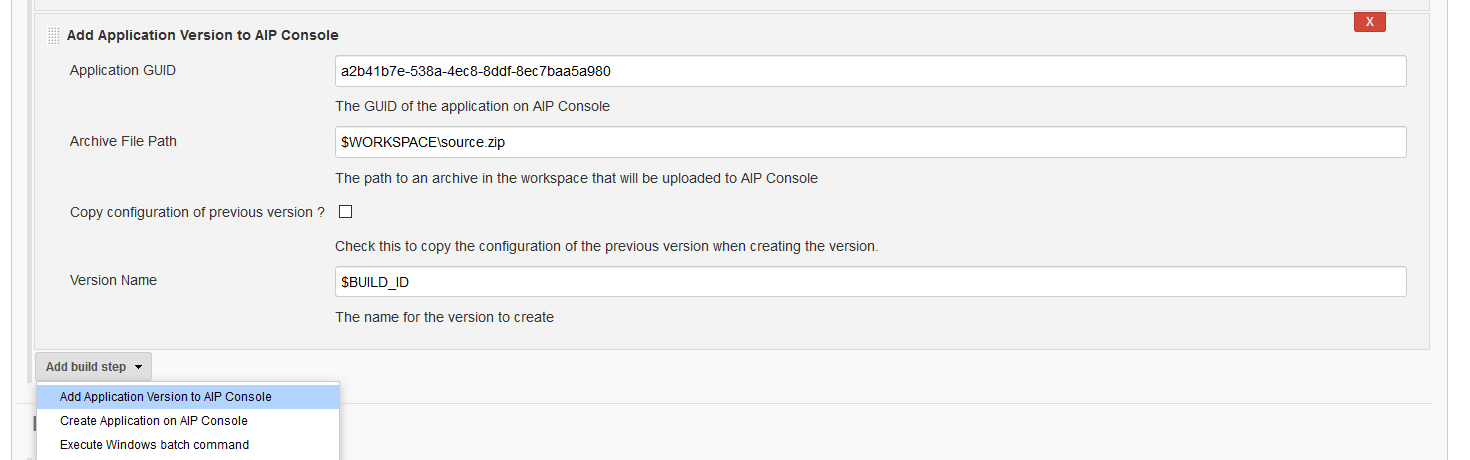
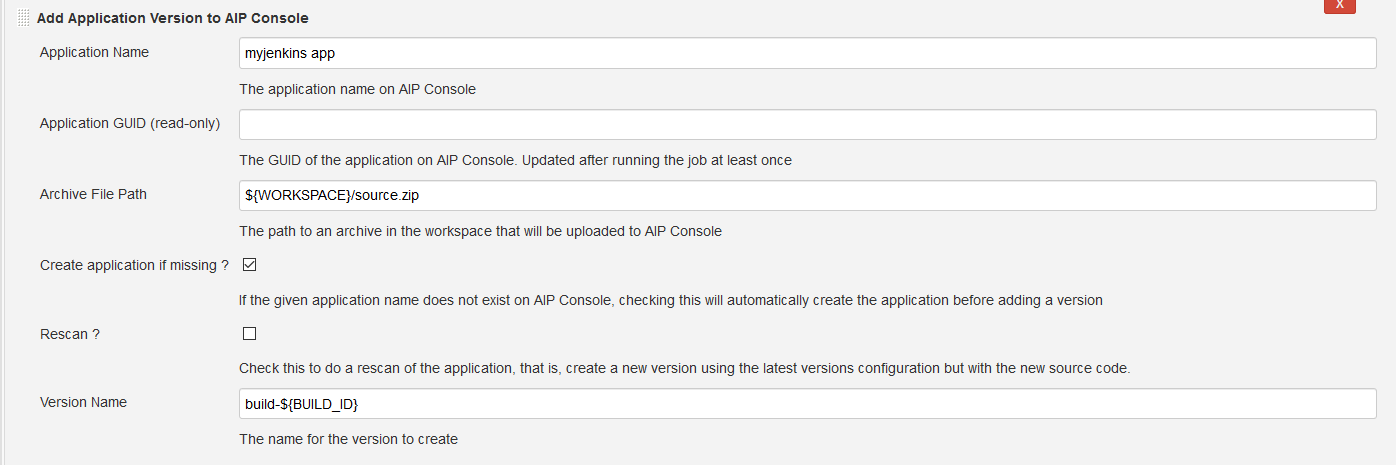
Documentation update Added some logs, as the lack of information might make a user think the CLI has stalled.

diff --git a/aip-console-tools-core/src/main/java/com/castsoftware/uc/aip/console/tools/core/services/ChunkedUploadServiceImpl.java b/aip-console-tools-core/src/main/java/com/castsoftware/uc/aip/console/tools/core/services/ChunkedUploadServiceImpl.java
@@ -56,7 +56,7 @@ public class ChunkedUploadServiceImpl implements ChunkedUploadService {
         ChunkedUploadDto dto;
         try {
             log.info("Creating a new upload for application");
-            log.info("Params : " + createUploadEndpoint + "\n" + request.toString());
+            log.fine("Params : " + createUploadEndpoint + "\n" + request.toString());
             dto = restApiService.postForEntity(createUploadEndpoint, request, ChunkedUploadDto.class);
         } catch (ApiCallException e) {
             throw new UploadException("Unable to create upload", e);

diff --git a/aip-console-tools-core/src/main/java/com/castsoftware/uc/aip/console/tools/core/services/ApplicationServiceImpl.java b/aip-console-tools-core/src/main/java/com/castsoftware/uc/aip/console/tools/core/services/ApplicationServiceImpl.java
@@ -55,6 +55,7 @@ public class ApplicationServiceImpl implements ApplicationService {
                 return null;
             }
             try {
+                log.info("Application not found and 'auto create' enabled. Starting application creation");
                 String jobGuid = jobService.startCreateApplication(applicationName);
                 return jobService.pollAndWaitForJobFinished(jobGuid, (s) -> s.getState() == JobState.COMPLETED ? s.getAppGuid() : null);
             } catch (JobServiceException e) {

diff --git a/aip-console-tools-cli/src/main/java/com/castsoftware/uc/aip/console/tools/commands/AddVersionCommand.java b/aip-console-tools-cli/src/main/java/com/castsoftware/uc/aip/console/tools/commands/AddVersionCommand.java
@@ -111,6 +111,7 @@ public class AddVersionCommand implements Callable<Integer> {
 
         try {
             if (StringUtils.isBlank(applicationGuid)) {
+                log.info("Search for application '{}' or AIP Console", applicationName);
                 applicationGuid = applicationService.getOrCreateApplicationFromName(applicationName, autoCreate);
                 if (StringUtils.isBlank(applicationGuid)) {
                     String message;

diff --git a/aip-console-tools-core/src/main/java/com/castsoftware/uc/aip/console/tools/core/services/RestApiServiceImpl.java b/aip-console-tools-core/src/main/java/com/castsoftware/uc/aip/console/tools/core/services/RestApiServiceImpl.java
@@ -76,6 +76,7 @@ public class RestApiServiceImpl implements RestApiService {
         assert StringUtils.isNoneBlank(serverUrl);
 
         if(StringUtils.isBlank(apiKey)) {
+            log.severe("No Password or API Key provided to log in to AIP Console.");
             throw new ApiKeyMissingException("No Password or API Key provided to log in to AIP Console.");
         }
 

diff --git a/aip-console-tools-cli/README.md b/aip-console-tools-cli/README.md
@@ -85,7 +85,9 @@ $ $JAVA_HOME/bin/java -jar aip-console-tools-cli.jar AddVersion --apikey:env=AIP
 Here is the output for this command :
 
 ```bash
-$ $JAVA_HOME/bin/java -jar aip-console-tools-cli.jar AddVersion --apikey:env=AIP_CONSOLE_KEY -a de7655a3-ecaa-4cd7-b860-5079a138db96 -f /tmp/jenkins-2.171.zip
+$ $JAVA_HOME/bin/java -jar aip-console-tools-cli.jar AddVersion --apikey:env=AIP_CONSOLE_KEY -n "my cli application" -f /tmp/jenkins-2.171.zip
+2019-06-18 15:56:50.248 - INFO --- Search for application 'my cli application' or AIP Console
+2019-06-18 15:58:02.236 - INFO --- Creating a new upload for application
 2019-04-12 16:26:07.625 - INFO --- Uploading chunk 1 of 2
 2019-04-12 16:26:07.850 - INFO --- Uploading chunk 2 of 2
 2019-04-12 16:26:08.115 - INFO --- Upload completed.
@@ -107,7 +109,7 @@ $ $JAVA_HOME/bin/java -jar aip-console-tools-cli.jar AddVersion --apikey:env=AIP
 2019-04-12 17:36:13.745 - INFO --- Job completed successfully.
 ```
 
-This will upload the file `jenkins-2.171.zip` to AIP Console, located at http://localhost:8081, for the application with guid `de7655a3-ecaa-4cd7-b860-5079a138db96`. Once the upload is complete, the CLI tool will ask AIP Console to start an "Add Version" job, with snapshot creation.
+This command will first search for the application `my cli application` on AIP Console server located at `http://localhost:8081` and then upload the file `jenkins-2.171.zip`. Once the upload is complete, the CLI tool will ask AIP Console to start an "Add Version" job, with snapshot creation.
 
 It'll then wait until the job is complete on AIP Console before closing, continuously monitoring the status of the job on AIP Console.
 The AIP Console CLI Tool will output information in the standard output, including error messages.
@@ -116,28 +118,34 @@ Here is a detailed look at the options available for `AddVersion` :
 
 ```bash
 $ java -jar target/aip-console-tools-cli.jar AddVersion -h
-Usage: aip-console-tools-cli AddVersion [-chV] [--apikey=<apiKey>] [--apikey:
-                                       env=ENV_VAR_NAME] -a=APPLICATION_GUID
-                                       -f=FILE [-s=AIP_CONSOLE_URL]
-                                       [-v=VERSION-NAME]
+Usage: aip-integration-tool AddVersion [-chV] [--auto-create] [--apikey[=<apiKey>]] [--apikey:env=ENV_VAR_NAME]
+                                       [--user=<username>] [-a=APPLICATION_GUID] -f=FILE [-n=APPLICATION_NAME]
+                                       [-s=AIP_CONSOLE_URL] [-v=VERSION-NAME]
 Creates a new version for an application on AIP Console
-      --apikey=<apiKey>   Enable prompt to enter password after start of CLI
+      --apikey[=<apiKey>]   The API Key to access AIP Console. Will prompt entry if no value is passed.
       --apikey:env=ENV_VAR_NAME
-                          The name of the environment variable containing the user\'s
-                            access token to AIP Console
+                            The name of the environment variable containing the AIP Key to access AIP Console
+      --auto-create         If the given application name doesn't exist on the target server, it'll be automatically created
+                              before creating a new version
+      --user=<username>     User name. Use this if no API Key generation is available on AIP Console. Provide the user's
+                              password in the apikey parameter.
   -a, --app-guid=APPLICATION_GUID
-                          The GUID of the application to rescan
-  -c, --clone             Clones the latest version configuration instead of
-                            creating a new version
-  -f, --file=FILE         The ZIP file containing the source to rescan
-  -h, --help              Show this help message and exit.
+                            The GUID of the application to rescan
+  -c, --clone, --rescan     Clones the latest version configuration instead of creating a new application
+  -f, --file=FILE           The ZIP file containing the source to rescan
+  -h, --help                Show this help message and exit.
+  -n, --app-name=APPLICATION_NAME
+                            The Name of the application to rescan
   -s, --server-url=AIP_CONSOLE_URL
-                          The base URL for AIP Console (defaults to http://localhost:
-                            8081)
+                            The base URL for AIP Console (defaults to http://localhost:8081)
   -v, --version-name=VERSION-NAME
-                          The name of the version to create (defaults to "vYYMMDD.HHmmss")
-  -V, --version           Print version information and exit.
+                            The name of the version to create
+  -V, --version             Print version information and exit.
 ```
+
+When starting the CLI, you can either provide an application name or an application GUID. If an application name is provided, it'll be looked up on AIP Console before continuing. If the CLI cannot find the application, it'll exit.
+
+Note that by default, the CLI will not create the application if it cannot be found. You have to provide the `--auto-create` flat. In which case, the application will be created before the version is added.
 
 By default, `AddVersion` will create a new version. If you want to clone an existing version, you will have to provide the `-c` flag, which will copy the previous version configuration.
 

diff --git a/aip-console-jenkins/README.md b/aip-console-jenkins/README.md
@@ -45,9 +45,15 @@ In the "Build" of your job, add a new Build Step, then click "Add Application ve
 
 ![Add Application Version capture](./doc/images/add-version.png)
 
-You must give an Application GUID and a path to a `zip` file as the first 2 parameters. The Zip file will be uploaded to AIP Console, extracted and the run through the whole analysis workflow, as if you had done so through the AIP Console UI.
+You must give an Application Name and a path to a `zip` file as the first 2 parameters.
 
-If you check the "Copy configuration" checkbox, this new version will copy the previous version's configuration (packages, extensions, etc.). 
+The application name will be checked on AIP Console, and the application GUID will be obtained this way (it'll be saved in the job configuration and displayed in the read only field Application GUID)
+
+The Zip file will be uploaded to AIP Console, extracted and then run through the whole analysis workflow, as if you had done so through the AIP Console UI.
+
+If you check the "Rescan" checkbox, this new version will copy the previous version's configuration (packages, extensions, etc.). 
+
+If you check the "Auto Create" checkbox, when searching for the application name on AIP Console, if it doesn't exists, it'll create it automatically.
 
 You can provide a version name. If left empty, the following version will be based o nthe current date and time and formatted as such: "vyyMMdd.HHmmss"
 
@@ -69,6 +75,8 @@ Current step of job is Create snapshot
 Current step of job is Consolidate snapshot and publish to Health Dashboard
 Analysis of application is completed.
 ```
+
+NB: Information regarding the creation of the application will also be added to the job output if Auto create is checked and the application does not exist on AIP Console.
 
 As with the Create Application step, you can also use this step in a Pipeline Project:
 
